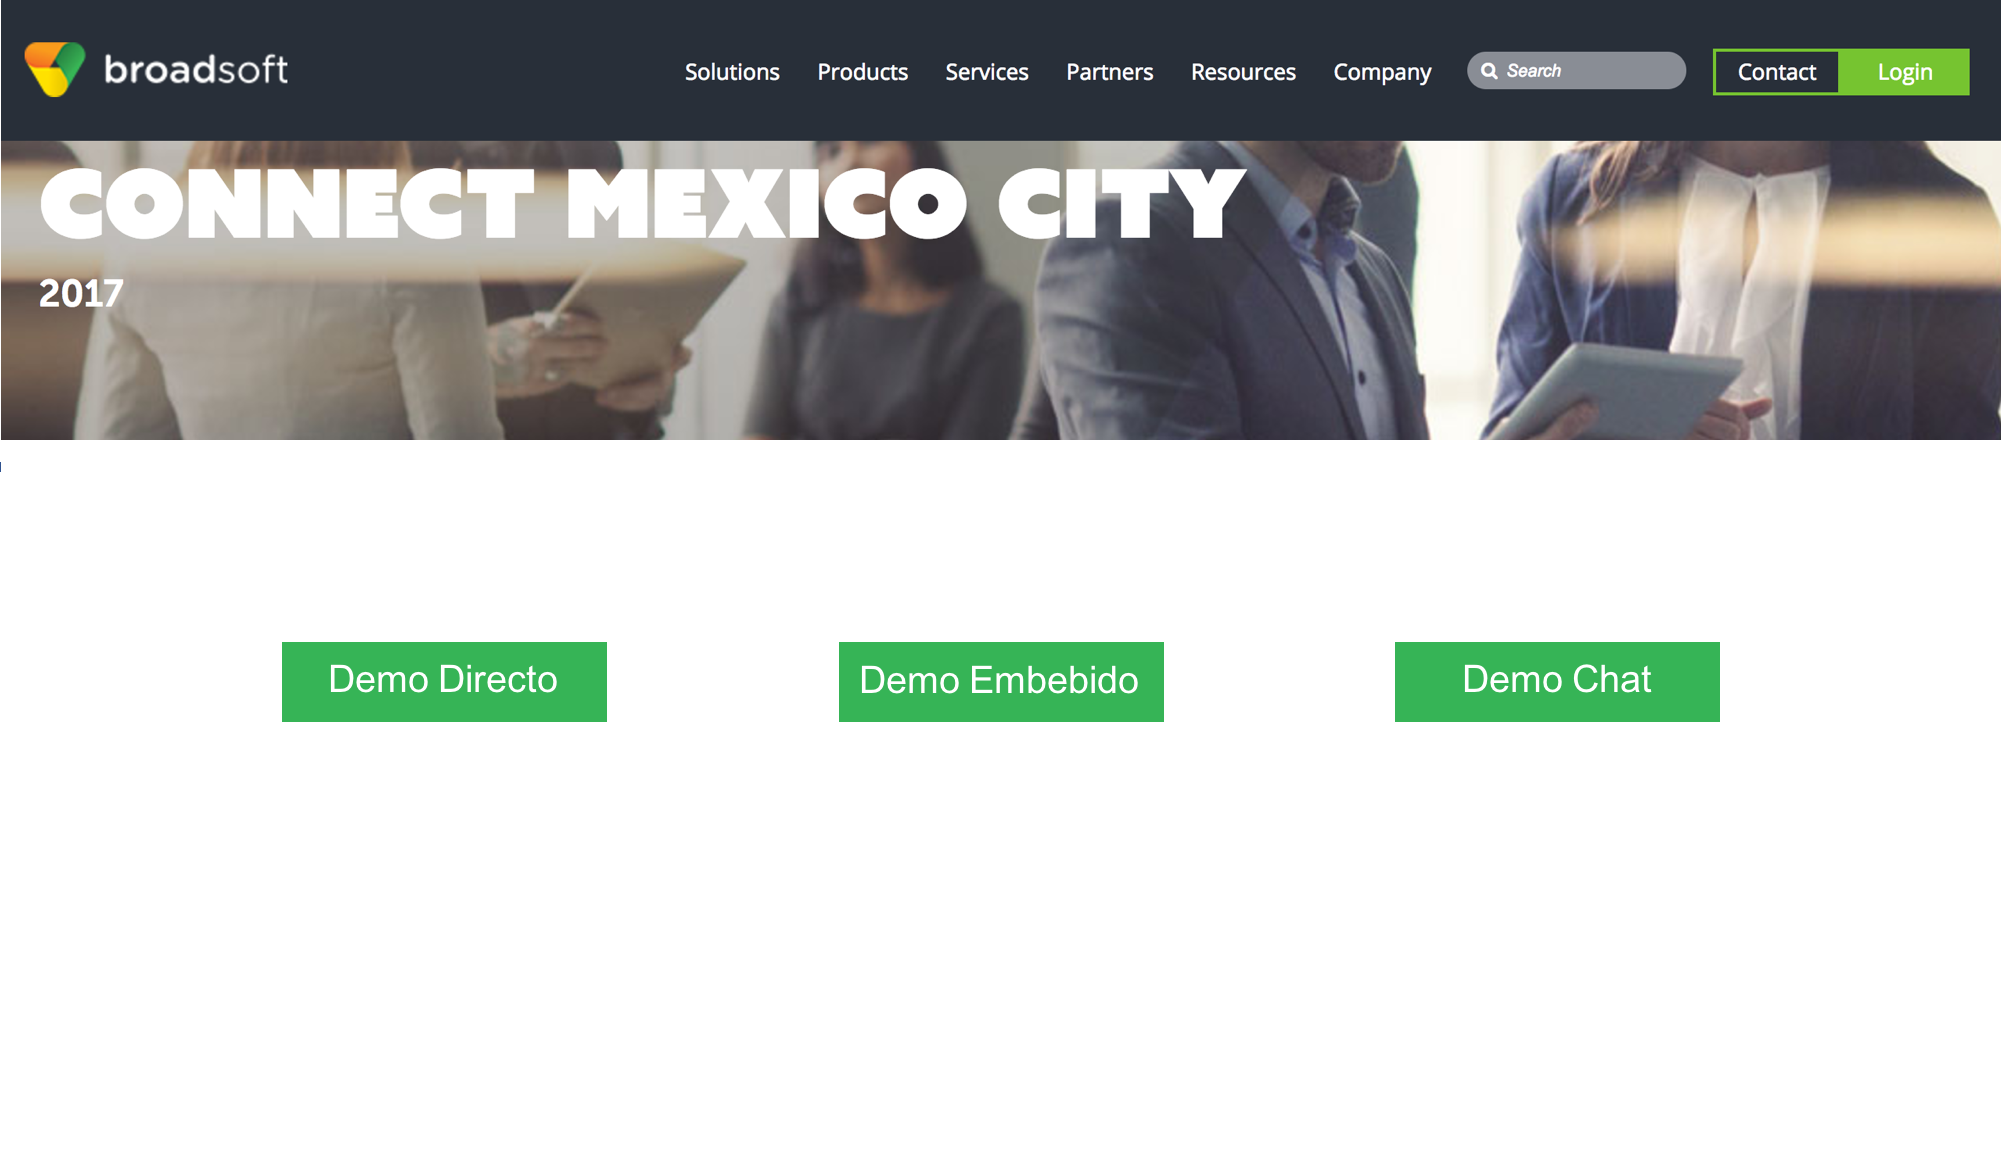
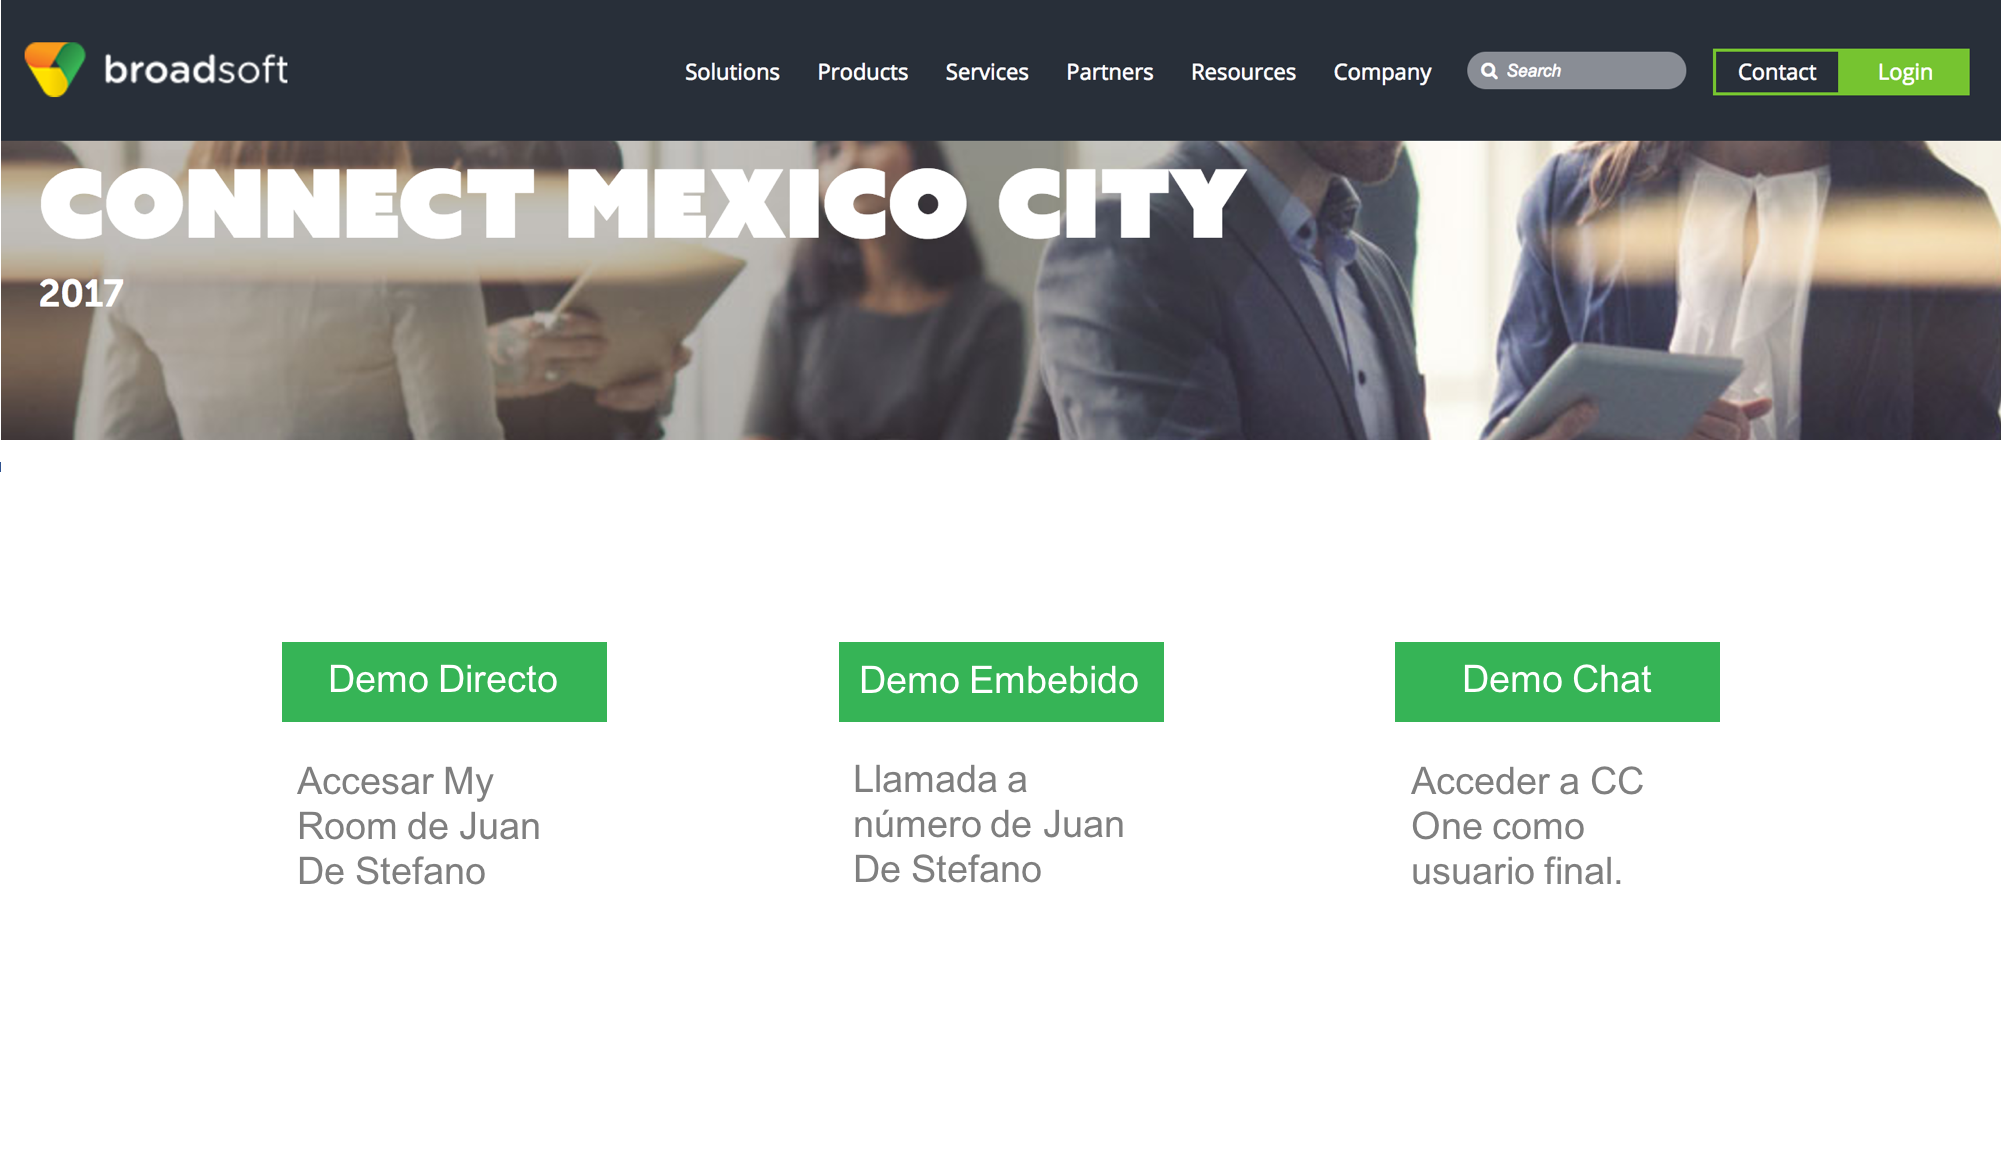
V4

Changed region(s): [[0.4338, 0.6478, 0.5577, 0.7712], [0.1549, 0.6478, 0.2789, 0.7712], [0.7126, 0.6478, 0.8366, 0.7712]]

diff --git a/destinationembebido.html b/destinationembebido.html
@@ -15,7 +15,7 @@
         <div style="position: absolute; bottom:0px; overflow: hidden; left: 558px; top: 150px; border: 0px none; width:680px; height:550px;">
             <div style="overflow: hidden;">
             </div>
-            <iframe id="webrtc-iframe" src="https://xsp.ihs.broadsoft.com/cgc?join=TWV4aWNvIDk5NTEsbWV4aWNvOTk1MUBicm9hZHNvZnQuY29tLGI3amI0cyxqcmYzYmM=" style="border: none; width: 680px; height: 550px;" webkitallowfullscreen="true"></iframe>
+            <iframe id="webrtc-iframe" src="https://xsp.ihs.broadsoft.com/webrtc/?destination=12002009257&name=WebRTC%20Caller" style="border: none; width: 680px; height: 550px;" webkitallowfullscreen="true"></iframe>
             </iframe>
         </div>
         </div>
